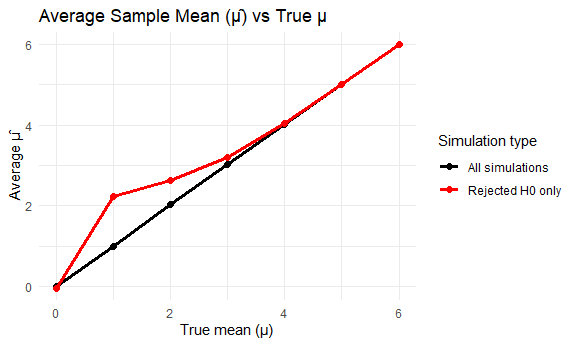
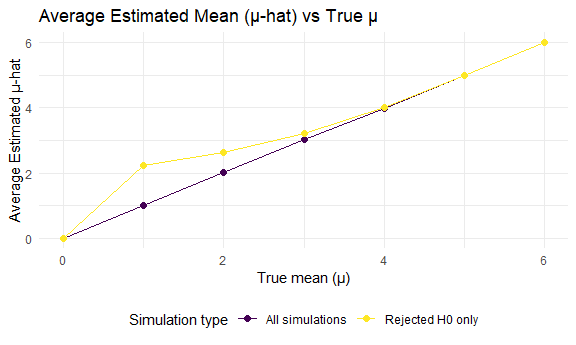
last plot for q3;  plot that shows the estimates and CIs for each city

diff --git a/p8105_hw5_kw3180.md b/p8105_hw5_kw3180.md
@@ -3,6 +3,8 @@ p8105_hw5_kw3180
 Kino Watanabe
 2025-11-14
 
+# Load library and set theme
+
 ``` r
 library(tidyverse)
 ```
@@ -21,6 +23,7 @@ library(tidyverse)
 ``` r
 library(broom)
 library(ggplot2)
+library(forcats)
 
 knitr::opts_chunk$set(
   fig.width = 6,
@@ -44,6 +47,9 @@ scale_fill_discrete = scale_fill_viridis_d
 - `n_subj` is \# of subjects
 - `mu` is the true mean
 - `sigma` is the true sd
+
+Generate 5000 datasets from the model x ~ Normal \[ mu, sigma \] for mu
+= {0:6}
 
 ``` r
 sim_mean_pval = function(mu, n_subj = 30, sigma = 5) {
@@ -71,7 +77,7 @@ sim_results_df =
 sim_results \<- map_dfr(1:5000, ~ sim_mean_pval(n_subj = 30, mu = 0,
 sigma = 5))
 
-# Plot power vs true μ
+### Plot power vs true μ
 
 ``` r
 power_df <- sim_results_df |>
@@ -92,6 +98,17 @@ power_df |>
 
 <img src="p8105_hw5_kw3180_files/figure-gfm/unnamed-chunk-3-1.png" width="90%" />
 
+- Power is the probability of rejecting the null when the alternative
+  hypothesis is true. As the true mean (mu) increases, the effect size
+  increases, and the power increases (proportional association). It is
+  easier to detect larger effect sizes, so the power is greater. When
+  the true mean reaches around 4, the power plateaus.
+
+### Plot mu-hat vs mu and mu-hat in samples for which the null was rejected vs mu
+
+- `mu` is the true mean
+- `mu_hat` is the estimated mean
+
 ``` r
 estimates_df <- sim_results_df |>
   group_by(mu) |>
@@ -103,25 +120,250 @@ estimates_df <- sim_results_df |>
 ```
 
 ``` r
+mu_plot <-
   ggplot(estimates_df, aes(x = mu)) +
-    geom_line(aes(y = mean_mu_hat, color = "All simulations"), size = 1.2) +
+    geom_line(aes(y = mean_mu_hat, color = "All simulations")) +
     geom_point(aes(y = mean_mu_hat, color = "All simulations"), size = 2) +
-    geom_line(aes(y = mean_mu_hat_reject, color = "Rejected H0 only"), size = 1.2) +
+    geom_line(aes(y = mean_mu_hat_reject, color = "Rejected H0 only")) +
     geom_point(aes(y = mean_mu_hat_reject, color = "Rejected H0 only"), size = 2) +
-    scale_color_manual(values = c("black", "red")) +
     labs(
-      title = "Average Sample Mean (μ̂) vs True μ",
+      title = "Average Estimated Mean (μ-hat) vs True μ",
       x = "True mean (μ)",
-      y = "Average μ̂",
+      y = "Average Estimated μ-hat",
       color = "Simulation type"
     ) +
-    theme_minimal()
+    theme(legend.position = "bottom")
+
+mu_plot
 ```
 
-    ## Warning: Using `size` aesthetic for lines was deprecated in ggplot2 3.4.0.
-    ## ℹ Please use `linewidth` instead.
-    ## This warning is displayed once every 8 hours.
-    ## Call `lifecycle::last_lifecycle_warnings()` to see where this warning was
-    ## generated.
-
 <img src="p8105_hw5_kw3180_files/figure-gfm/unnamed-chunk-5-1.png" width="90%" />
+
+- The purple “all simulations” line is the average estimated mean across
+  all simulations, which is closer to the true mean `mu`. This makes
+  sense, since it takes into account of simulations that rejected and
+  failed the rejected the null. The effect size is unbiased compared to
+  the underlying population mean. The yellow line with the average
+  estimated mean for rejected nulls is overestimated from the true mean,
+  particularly when `mu` is small, as the means are among simulations
+  with statistically significant differences. For small `mu`,
+  significant differences between true and estimated mean can occur by
+  chance.
+
+# Problem 3
+
+``` r
+raw_homicide_df =
+  read_csv("data-homicides-master/homicide-data.csv",
+           na = c("NA", ".","")
+  )
+```
+
+    ## Rows: 52179 Columns: 12
+    ## ── Column specification ────────────────────────────────────────────────────────
+    ## Delimiter: ","
+    ## chr (9): uid, victim_last, victim_first, victim_race, victim_age, victim_sex...
+    ## dbl (3): reported_date, lat, lon
+    ## 
+    ## ℹ Use `spec()` to retrieve the full column specification for this data.
+    ## ℹ Specify the column types or set `show_col_types = FALSE` to quiet this message.
+
+- **Describe the raw data**: There are 52179 observations and 12
+  variables. There are important variables about victim personal
+  information (`victim_last`, `victim_first`, `victim_age`,
+  `victim_sex`) and incident location/specifics (`city`, `state`, `lat`,
+  `lon`, `reported_date`).
+
+``` r
+homicide_df <- raw_homicide_df |>   
+  janitor::clean_names() |> 
+  mutate(
+   state = case_match(state,
+             "wI" ~ "WI",
+             .default = state),
+   city_state = str_c(city, ", ", state)
+  ) |> 
+  filter(city_state != "Tulsa, AL")
+
+unsolved_table <- homicide_df |> 
+  group_by(city_state) |> 
+  summarize(
+    total_homicides = n(),
+    unsolved_homicides = sum(disposition %in% 
+                               c("Closed without arrest", "Open/No arrest"), 
+                             na.rm = TRUE), .groups = "drop"
+  ) 
+
+unsolved_table |> 
+  knitr::kable()
+```
+
+| city_state         | total_homicides | unsolved_homicides |
+|:-------------------|----------------:|-------------------:|
+| Albuquerque, NM    |             378 |                146 |
+| Atlanta, GA        |             973 |                373 |
+| Baltimore, MD      |            2827 |               1825 |
+| Baton Rouge, LA    |             424 |                196 |
+| Birmingham, AL     |             800 |                347 |
+| Boston, MA         |             614 |                310 |
+| Buffalo, NY        |             521 |                319 |
+| Charlotte, NC      |             687 |                206 |
+| Chicago, IL        |            5535 |               4073 |
+| Cincinnati, OH     |             694 |                309 |
+| Columbus, OH       |            1084 |                575 |
+| Dallas, TX         |            1567 |                754 |
+| Denver, CO         |             312 |                169 |
+| Detroit, MI        |            2519 |               1482 |
+| Durham, NC         |             276 |                101 |
+| Fort Worth, TX     |             549 |                255 |
+| Fresno, CA         |             487 |                169 |
+| Houston, TX        |            2942 |               1493 |
+| Indianapolis, IN   |            1322 |                594 |
+| Jacksonville, FL   |            1168 |                597 |
+| Kansas City, MO    |            1190 |                486 |
+| Las Vegas, NV      |            1381 |                572 |
+| Long Beach, CA     |             378 |                156 |
+| Los Angeles, CA    |            2257 |               1106 |
+| Louisville, KY     |             576 |                261 |
+| Memphis, TN        |            1514 |                483 |
+| Miami, FL          |             744 |                450 |
+| Milwaukee, WI      |            1115 |                403 |
+| Minneapolis, MN    |             366 |                187 |
+| Nashville, TN      |             767 |                278 |
+| New Orleans, LA    |            1434 |                930 |
+| New York, NY       |             627 |                243 |
+| Oakland, CA        |             947 |                508 |
+| Oklahoma City, OK  |             672 |                326 |
+| Omaha, NE          |             409 |                169 |
+| Philadelphia, PA   |            3037 |               1360 |
+| Phoenix, AZ        |             914 |                504 |
+| Pittsburgh, PA     |             631 |                337 |
+| Richmond, VA       |             429 |                113 |
+| Sacramento, CA     |             376 |                139 |
+| San Antonio, TX    |             833 |                357 |
+| San Bernardino, CA |             275 |                170 |
+| San Diego, CA      |             461 |                175 |
+| San Francisco, CA  |             663 |                336 |
+| Savannah, GA       |             246 |                115 |
+| St. Louis, MO      |            1677 |                905 |
+| Stockton, CA       |             444 |                266 |
+| Tampa, FL          |             208 |                 95 |
+| Tulsa, OK          |             583 |                193 |
+| Washington, DC     |            1345 |                589 |
+
+- The most total homicides were in Chicago, IL; Philadelphia, PA; and
+  Houston, TX. The most unsolved homicides were in Chicago, IL;
+  Baltimore, MD; and Houston, TX.
+
+###### delete after finishing – checking data
+
+homicide_df \|\> count(victim_age) \|\> arrange(victim_age)
+
+\# to describe some parts of the data
+
+homicide_df \|\> count(victim_sex) \|\> arrange(victim_sex)
+
+homicide_df \|\> count(victim_sex) \|\> arrange(victim_sex)
+
+homicide_df \|\> distinct(city)
+
+homicide_df \|\> ggplot(aes(x = victim_age)) + geom_histogram(binwidth
+= 1) + labs(title = “Distribution of Victim Ages”, x = “Age”, y =
+“Count”)
+
+# There are 0-102 yo?
+
+homicide_df \|\> count(victim_race) \|\> arrange(victim_race)
+
+homicide_df \|\> count(city_state) \|\> arrange(city_state)
+
+# no tulsa, AL??????
+
+homicide_df \|\> count(disposition) \|\> arrange(disposition)
+
+### Baltimore
+
+``` r
+baltimore_df <- homicide_df |>
+  filter(city_state == "Baltimore, MD") |>
+  summarize(
+    total_homicides = n(),
+    unsolved_homicides = sum(disposition %in% 
+                               c("Closed without arrest", "Open/No arrest"), na.rm = TRUE)
+  ) |>
+  mutate(
+    prop_test = list(prop.test(unsolved_homicides, total_homicides)))
+                     
+baltimore_est <- baltimore_df |>
+  mutate(tidy = purrr::map(prop_test, broom::tidy)) |>
+  tidyr::unnest(tidy) |>
+  select(estimate, conf.low, conf.high)
+```
+
+### All cities
+
+### Make a function: estimate the proportion of homicides that are unsolved with prop_test
+
+``` r
+unsolved_prop_test <- function(unsolved_homicides, total_homicides) {
+  prop.test(unsolved_homicides, total_homicides) |>
+    tidy() |>
+    select(estimate, conf.low, conf.high)
+}
+
+# Summarize total and unsolved homicides per city
+city_summary <- homicide_df |>
+  group_by(city_state) |>
+  summarize(
+    total_homicides = n(),
+    unsolved_homicides = sum(disposition %in% c("Closed without arrest", "Open/No arrest")),
+    .groups = "drop"
+  )
+
+# Run prop.test for each city using map2() in a tidy pipeline
+city_results <- city_summary |>
+  mutate(
+    prop_test = map2(unsolved_homicides, total_homicides, unsolved_prop_test)
+  ) |>
+  unnest(prop_test) 
+
+city_results |> 
+  janitor::clean_names()
+```
+
+    ## # A tibble: 50 × 6
+    ##    city_state     total_homicides unsolved_homicides estimate conf_low conf_high
+    ##    <chr>                    <int>              <int>    <dbl>    <dbl>     <dbl>
+    ##  1 Albuquerque, …             378                146    0.386    0.337     0.438
+    ##  2 Atlanta, GA                973                373    0.383    0.353     0.415
+    ##  3 Baltimore, MD             2827               1825    0.646    0.628     0.663
+    ##  4 Baton Rouge, …             424                196    0.462    0.414     0.511
+    ##  5 Birmingham, AL             800                347    0.434    0.399     0.469
+    ##  6 Boston, MA                 614                310    0.505    0.465     0.545
+    ##  7 Buffalo, NY                521                319    0.612    0.569     0.654
+    ##  8 Charlotte, NC              687                206    0.300    0.266     0.336
+    ##  9 Chicago, IL               5535               4073    0.736    0.724     0.747
+    ## 10 Cincinnati, OH             694                309    0.445    0.408     0.483
+    ## # ℹ 40 more rows
+
+### Organize cities according to the proportion of unsolved homicides
+
+``` r
+city_results <- city_results |>
+  mutate(city_state = fct_reorder(city_state, estimate))
+
+# Plot with error bars
+ggplot(city_results, aes(x = city_state, y = estimate)) +
+  geom_point(size = 2) +
+  geom_errorbar(aes(ymin = conf.low, ymax = conf.high), width = 0.2, color = "darkgray") +
+  coord_flip() + # Flip axes so city names are readable
+  labs(
+    title = "Estimated Proportion of Unsolved Homicides by City",
+    x = "City, State",
+    y = "Estimated Proportion of Unsolved Homicides",
+    caption = "The error bars are based on the upper and lower limits"
+  ) +
+  theme(legend.position = "bottom")
+```
+
+<img src="p8105_hw5_kw3180_files/figure-gfm/unnamed-chunk-10-1.png" width="90%" />
